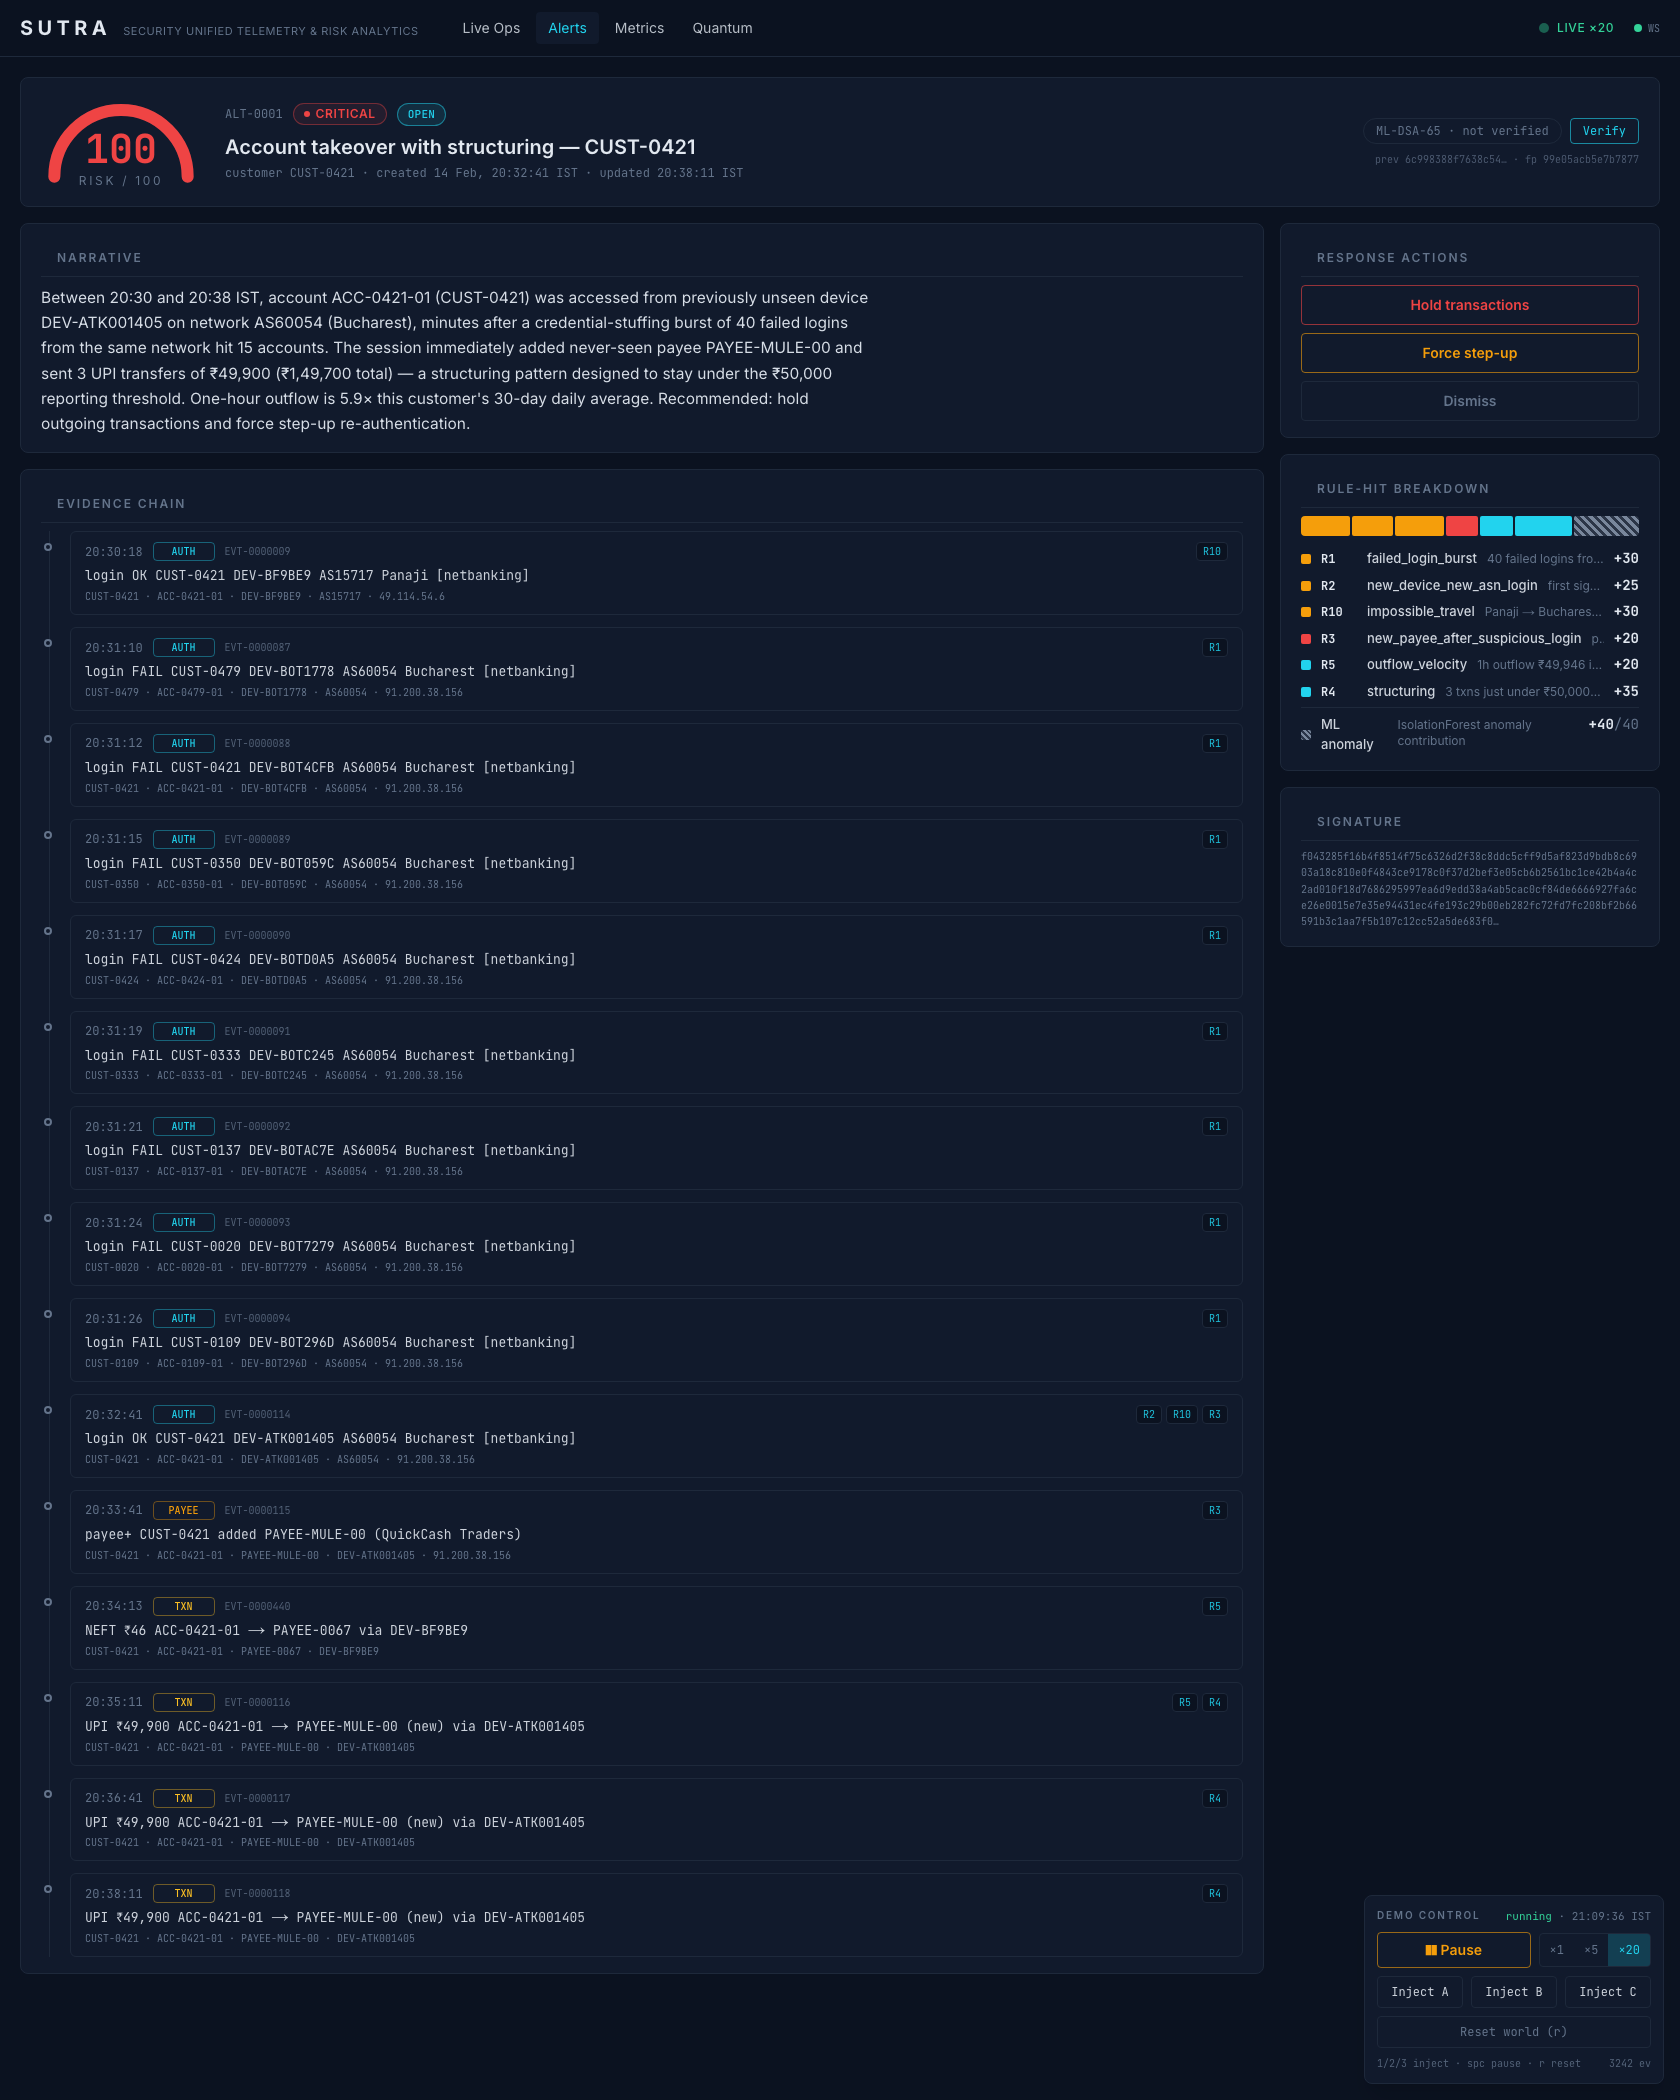
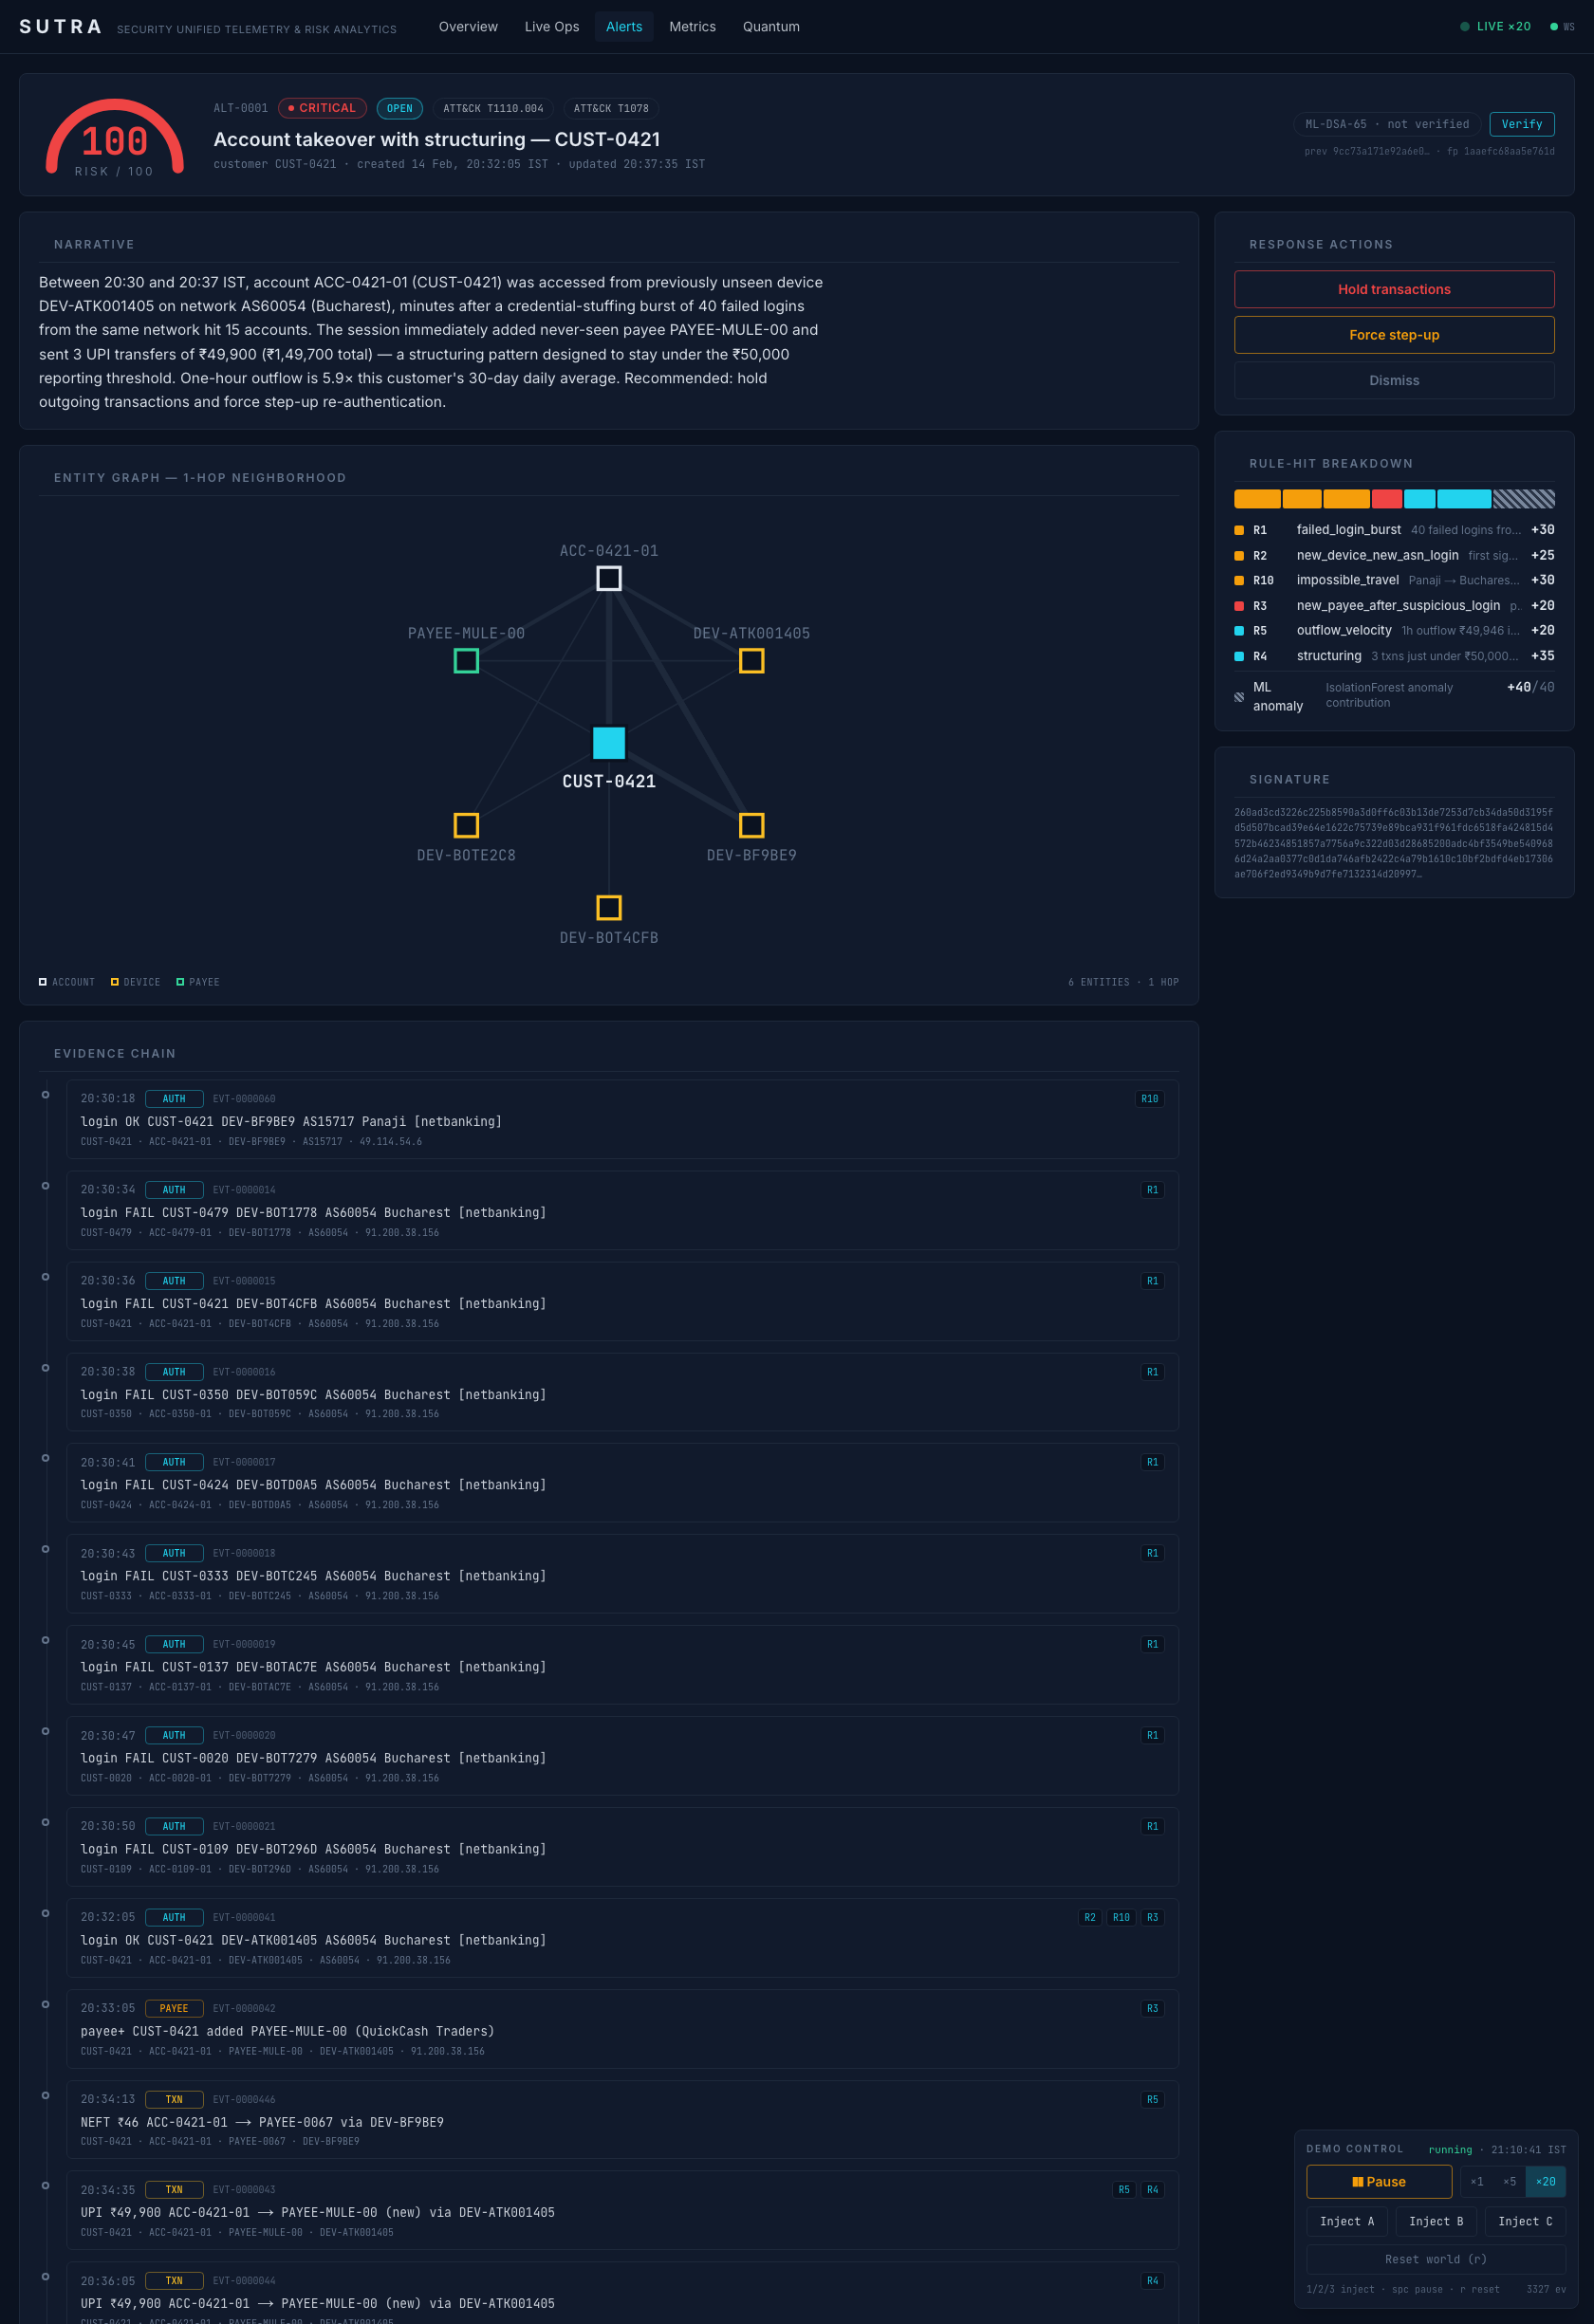
stretch (spec s13): entity-graph view on alert detail, MITRE ATT&CK tags, healthcheck fix
Deadline extended, DoD already green — so the spec's post-DoD stretch list:

- Entity-graph view on the alert detail page: the 1-hop neighborhood from the
  existing /api/graph endpoint as a hand-rolled deterministic radial SVG
  (no Cytoscape/new deps — a dozen nodes need no physics engine, and a fixed
  sorted-circle layout renders identically every run). Multi-edges collapse
  to one line with an event count (stroke scales log2). Type-colored square
  nodes, legend, graceful loading/unavailable states. The core "one entity
  graph" concept is now visible on the money screen: attacker device and
  mule payee literally hang off the victim hub.

- MITRE ATT&CK technique tags per dominant pattern (ato: T1110.004+T1078,
  terminal_compromise: T1071.001+T1657, quantum_exfil: T1048.002), carried
  in the existing tags list and rendered as header chips. Only techniques
  the evidence actually demonstrates.

- Fixed the frontend container reporting (unhealthy) forever: the compose
  healthcheck probed http://localhost:3000 and busybox wget resolves
  localhost to ::1 first, but the Next standalone server binds IPv4 only —
  probe 127.0.0.1 instead (the Dockerfile HEALTHCHECK already did; compose
  was overriding it). All three services now report healthy.

Refreshed alert-detail-scenario-a.png (now shows graph + chips), README,
screenshots README, DECISIONS. 42/42 tests green; verified live in Docker:
tags on ALT-0001/ALT-0002, graph rendering, zero console errors.

diff --git a/frontend/components/EntityGraph.tsx b/frontend/components/EntityGraph.tsx
@@ -1,0 +1,190 @@
+"use client";
+
+import { useEffect, useMemo, useState } from "react";
+import { getGraph } from "@/lib/api";
+import type { GraphResponse } from "@/lib/types";
+
+/**
+ * 1-hop entity neighborhood as a deterministic radial SVG — the correlation
+ * primitive made visible. Hand-rolled (no graph library): the payload is small
+ * (a dozen nodes), the layout is a fixed circle sorted by (type, id), and the
+ * result is identical every render — same seed, same picture, same demo.
+ * Multi-edges (one per event in the MultiDiGraph) collapse into one line with
+ * an event count.
+ */
+
+const TYPE_COLOR: Record<string, string> = {
+  customer: "#22D3EE",
+  server: "#22D3EE",
+  account: "#E2E8F0",
+  device: "#FBBF24",
+  staff: "#34D399",
+  payee: "#34D399",
+  terminal: "#F59E0B",
+  asn: "#F59E0B",
+  ip: "#EF4444",
+};
+
+const MAX_NEIGHBORS = 16;
+const W = 720;
+const H = 300;
+const CX = W / 2;
+const CY = H / 2 + 6;
+const R = 104;
+
+export function EntityGraph({ entityId }: { entityId: string }) {
+  const [graph, setGraph] = useState<GraphResponse | null>(null);
+  const [failed, setFailed] = useState(false);
+
+  useEffect(() => {
+    let alive = true;
+    setGraph(null);
+    setFailed(false);
+    getGraph(entityId).then((g) => {
+      if (!alive) return;
+      if (g === null) setFailed(true);
+      else setGraph(g);
+    });
+    return () => {
+      alive = false;
+    };
+  }, [entityId]);
+
+  const layout = useMemo(() => {
+    if (!graph) return null;
+    const neighbors = graph.nodes
+      .filter((n) => n.id !== entityId)
+      .sort((a, b) => a.type.localeCompare(b.type) || a.id.localeCompare(b.id));
+    const shown = neighbors.slice(0, MAX_NEIGHBORS);
+    const hidden = neighbors.length - shown.length;
+
+    const pos = new Map<string, { x: number; y: number }>();
+    pos.set(entityId, { x: CX, y: CY });
+    shown.forEach((n, i) => {
+      // start at -90° so the first group sits on top; even angular spacing
+      const a = -Math.PI / 2 + (2 * Math.PI * i) / Math.max(shown.length, 1);
+      pos.set(n.id, { x: CX + R * Math.cos(a), y: CY + R * Math.sin(a) });
+    });
+
+    // collapse multi-edges (one per event) into one line + count
+    const collapsed = new Map<string, { src: string; dst: string; type: string; n: number }>();
+    for (const e of graph.edges) {
+      if (!pos.has(e.src) || !pos.has(e.dst)) continue;
+      const key = [e.src, e.dst, e.type].join("|");
+      const prev = collapsed.get(key);
+      if (prev) prev.n += 1;
+      else collapsed.set(key, { src: e.src, dst: e.dst, type: e.type, n: 1 });
+    }
+
+    const types = Array.from(new Set(shown.map((n) => n.type))).sort();
+    return { shown, hidden, pos, edges: Array.from(collapsed.values()), types };
+  }, [graph, entityId]);
+
+  if (failed)
+    return (
+      <p className="py-4 text-center font-mono text-xs text-muted">
+        graph unavailable for {entityId}
+      </p>
+    );
+  if (!layout)
+    return (
+      <p className="py-4 text-center font-mono text-xs text-muted">
+        loading neighborhood…
+      </p>
+    );
+
+  const hub = layout.pos.get(entityId)!;
+  return (
+    <div>
+      <svg
+        viewBox={`0 0 ${W} ${H}`}
+        className="w-full"
+        role="img"
+        aria-label={`Entity graph: ${layout.shown.length} entities within one hop of ${entityId}`}
+      >
+        {layout.edges.map((e) => {
+          const a = layout.pos.get(e.src)!;
+          const b = layout.pos.get(e.dst)!;
+          return (
+            <line
+              key={`${e.src}|${e.dst}|${e.type}`}
+              x1={a.x}
+              y1={a.y}
+              x2={b.x}
+              y2={b.y}
+              stroke="#1E293B"
+              strokeWidth={Math.min(1 + Math.log2(e.n), 4)}
+            >
+              <title>{`${e.type} ×${e.n} — ${e.src} → ${e.dst}`}</title>
+            </line>
+          );
+        })}
+        {layout.shown.map((n) => {
+          const p = layout.pos.get(n.id)!;
+          const c = TYPE_COLOR[n.type] ?? "#64748B";
+          return (
+            <g key={n.id}>
+              <rect
+                x={p.x - 7}
+                y={p.y - 7}
+                width={14}
+                height={14}
+                fill="#0B1220"
+                stroke={c}
+                strokeWidth={2}
+              >
+                <title>{`${n.type} ${n.id}`}</title>
+              </rect>
+              <text
+                x={p.x}
+                y={p.y + (p.y >= CY ? 22 : -14)}
+                textAnchor="middle"
+                fill="#64748B"
+                fontSize="9.5"
+                fontFamily="var(--font-jetbrains), ui-monospace, monospace"
+              >
+                {n.id}
+              </text>
+            </g>
+          );
+        })}
+        {/* hub on top */}
+        <rect
+          x={hub.x - 11}
+          y={hub.y - 11}
+          width={22}
+          height={22}
+          fill="#22D3EE"
+          stroke="#0B1220"
+          strokeWidth={2}
+        />
+        <text
+          x={hub.x}
+          y={hub.y + 28}
+          textAnchor="middle"
+          fill="#E2E8F0"
+          fontSize="11"
+          fontWeight="700"
+          fontFamily="var(--font-jetbrains), ui-monospace, monospace"
+        >
+          {entityId}
+        </text>
+      </svg>
+      <div className="mt-1 flex flex-wrap items-center gap-x-4 gap-y-1 font-mono text-[10px] uppercase tracking-wider text-muted">
+        {layout.types.map((t) => (
+          <span key={t} className="flex items-center gap-1.5">
+            <span
+              className="inline-block h-2 w-2"
+              style={{ border: `2px solid ${TYPE_COLOR[t] ?? "#64748B"}` }}
+            />
+            {t}
+          </span>
+        ))}
+        <span className="ml-auto">
+          {layout.shown.length} entities · 1 hop
+          {layout.hidden > 0 ? ` · +${layout.hidden} more` : ""}
+        </span>
+      </div>
+    </div>
+  );
+}

diff --git a/frontend/lib/types.ts b/frontend/lib/types.ts
@@ -207,3 +207,20 @@ export interface AlertPushMessage {
 
 export type Scenario = "A" | "B" | "C";
 export type ReplaySpeed = 1 | 5 | 20;
+
+// ---- entity graph (GET /api/graph/{entity_id}) ----
+export interface GraphNode {
+  id: string;
+  type: string;
+}
+export interface GraphEdge {
+  src: string;
+  dst: string;
+  type: string;
+  ts: string;
+  event_id: string;
+}
+export interface GraphResponse {
+  nodes: GraphNode[];
+  edges: GraphEdge[];
+}

diff --git a/frontend/app/alerts/[id]/page.tsx b/frontend/app/alerts/[id]/page.tsx
@@ -1,6 +1,7 @@
 "use client";
 
 import { useCallback, useEffect, useRef, useState } from "react";
+import { EntityGraph } from "@/components/EntityGraph";
 import { EvidenceTimeline } from "@/components/EvidenceTimeline";
 import { RiskGauge } from "@/components/RiskGauge";
 import { RuleBreakdown } from "@/components/RuleBreakdown";
@@ -152,6 +153,17 @@ export default function AlertDetailPage({
                   QUANTUM / HNDL
                 </span>
               )}
+              {detail.tags
+                .filter((t) => /^T\d{4}/.test(t))
+                .map((t) => (
+                  <span
+                    key={t}
+                    title={`MITRE ATT&CK ${t}`}
+                    className="rounded-full border border-edge bg-panel px-2.5 py-0.5 font-mono text-[11px] text-body/70"
+                  >
+                    ATT&amp;CK {t}
+                  </span>
+                ))}
             </div>
             <h1 className="mt-2 text-xl font-semibold leading-snug text-body">
               {detail.title}
@@ -229,6 +241,10 @@ export default function AlertDetailPage({
             <p className="max-w-[85ch] pt-2 text-[15.5px] leading-relaxed text-body/95">
               {detail.narrative}
             </p>
+          </Panel>
+
+          <Panel title="Entity graph — 1-hop neighborhood" className="px-5 py-4">
+            <EntityGraph entityId={detail.entity_id} />
           </Panel>
 
           <Panel title="Evidence chain" className="px-5 py-4">

diff --git a/frontend/lib/api.ts b/frontend/lib/api.ts
@@ -3,6 +3,7 @@ import type {
   ActionType,
   AlertDetail,
   AlertsResponse,
+  GraphResponse,
   Metrics,
   QuantumResponse,
   ReplayControlResponse,
@@ -113,4 +114,8 @@ export function replayInject(
   scenario: Scenario,
 ): Promise<ReplayControlResponse | null> {
   return postJSON<ReplayControlResponse>(`/api/replay/inject/${scenario}`);
+}
+
+export function getGraph(entityId: string): Promise<GraphResponse | null> {
+  return getJSON<GraphResponse>(`/api/graph/${encodeURIComponent(entityId)}`);
 }

diff --git a/backend/sutra/explain.py b/backend/sutra/explain.py
@@ -86,6 +86,15 @@ TITLES = {
     "generic": "Correlated risk activity — {entity}",
 }
 
+# MITRE ATT&CK technique tags per dominant pattern (rendered as chips in the UI;
+# kept to techniques the evidence actually demonstrates, nothing aspirational).
+MITRE_TAGS = {
+    "ato": ["T1110.004", "T1078"],          # credential stuffing, valid accounts
+    "terminal_compromise": ["T1071.001", "T1657"],  # C2 over app protocol, financial theft
+    "quantum_exfil": ["T1048.002"],         # exfil over encrypted non-C2 protocol
+    "generic": [],
+}
+
 
 def _fmt(ts: datetime) -> str:
     return ist(ts).strftime("%H:%M")

diff --git a/backend/sutra/fusion.py b/backend/sutra/fusion.py
@@ -14,7 +14,7 @@ from typing import Optional
 
 from .config import (ALERT_THRESHOLD, INCIDENT_WINDOW_MIN, ML_MIN_POINTS, ML_WEIGHT,
                      RULE_WEIGHT, SILOED_THRESHOLD, severity_for)
-from .explain import TITLES, build_narrative, guess_pattern
+from .explain import MITRE_TAGS, TITLES, build_narrative, guess_pattern
 from .generator.world import World
 from .graph import EntityGraph
 from .rules.engine import Hit, RuleEngine
@@ -210,6 +210,7 @@ class FusionEngine:
                                   points=h.points, detail=h.detail, ts=h.ts)
                      for h in hits]
         tags = ["quantum"] if any(h.domain == "quantum" for h in hits) else []
+        tags += MITRE_TAGS.get(pattern, [])
 
         if inc.alert_id is None:
             self._seq += 1

diff --git a/DECISIONS.md b/DECISIONS.md
@@ -17,4 +17,8 @@ One line per non-obvious decision, newest at the bottom.
 - Events live in in-memory ring buffers; only alerts/actions are persisted to SQLite (alerts embed their evidence copies, so the signed record is self-contained).
 - Frontend calls the backend directly at NEXT_PUBLIC_API_BASE (default http://localhost:8000) with CORS enabled, rather than proxying through Next — fewer moving parts on the projector.
 - Live injections compress intra-scenario gaps 0.5× (spec 6.4 allows it) so Scenario A's critical alert lands ~7s after pressing 1 at ×20; batch mode keeps the exact spec offsets for the benchmark.
+- Compose healthcheck probes 127.0.0.1, not localhost: busybox wget tries ::1 first and the Next standalone server binds IPv4 only — the frontend container showed (unhealthy) forever while serving fine.
+- Entity-graph view on alert detail is a hand-rolled deterministic radial SVG, not Cytoscape (spec stretch suggested it): the 1-hop payload is ~a dozen nodes, a fixed sorted-circle layout renders identically every run, and zero new npm deps keeps the offline bundle small.
+- MITRE ATT&CK tags per dominant pattern (ato → T1110.004/T1078, terminal → T1071.001/T1657, quantum → T1048.002) ride in the existing alert tags list — techniques the evidence actually demonstrates, nothing aspirational.
+- /overview cover page cancels the root layout's pb-40 dock clearance and hides the floating dock on that route only — it must fit exactly one viewport for screenshots; its START DEMO CTA replaces the dock there (hotkeys stay live).
 - Adversarial-review fixes (all six confirmed findings): inject uses ensure_running() so it never clears an operator pause; chain verification checks every record's ML-DSA signature (an unkeyed hash can be recomputed by a tamperer, even on the tail); pubkey_fingerprint is signed into the payload and verify reports the record's fingerprint; R4's dedup key anchors to the first txn of a contiguous run (sliding-window anchor re-scored long runs); R10 requires device novelty (a known handset in a new city is roaming, not teleportation — and the takeover login still trips it); merging two already-alerted incidents retires the absorbed alert as dismissed "[Merged into ALT-X]" instead of orphaning it open.

diff --git a/README.md b/README.md
@@ -92,8 +92,9 @@ open-source; the finished app runs air-gapped.
 
 Captured from the running Docker stack — see [`deliverables/screenshots/`](deliverables/screenshots/):
 
+- [Overview cover page](deliverables/screenshots/overview.png) — scenario case previews, benchmark stats, START DEMO flow (`/overview`)
 - [Live Ops mid-Scenario A](deliverables/screenshots/live-ops-scenario-a.png) — both event rivers flowing, the critical account-takeover alert in the feed
-- [Alert detail "money screen"](deliverables/screenshots/alert-detail-scenario-a.png) — narrative, full evidence chain, rule-hit breakdown, ML-DSA-65 signature
+- [Alert detail "money screen"](deliverables/screenshots/alert-detail-scenario-a.png) — narrative, entity-graph neighborhood, full evidence chain, rule-hit breakdown, MITRE ATT&CK tags, ML-DSA-65 signature
 - [Fused-vs-siloed benchmark](deliverables/screenshots/metrics.png) — −91.4% alert volume, 0 false positives
 - [HNDL crypto inventory](deliverables/screenshots/quantum.png) — DB-2 flagged quantum-vulnerable red
 

diff --git a/deliverables/screenshots/README.md b/deliverables/screenshots/README.md
@@ -3,6 +3,7 @@
 Captured from the running Docker stack (seed 42).
 
 - `live-ops-scenario-a.png` — Live Ops mid-Scenario A: both event rivers flowing, the critical account-takeover alert in the feed.
-- `alert-detail-scenario-a.png` — the alert-detail "money screen": narrative, full evidence chain, rule-hit breakdown, ML anomaly, ML-DSA-65 signature.
+- `overview.png` — the `/overview` cover page: case previews, benchmark stats, START DEMO flow.
+- `alert-detail-scenario-a.png` — the alert-detail "money screen": narrative, entity-graph neighborhood, full evidence chain, rule-hit breakdown, MITRE ATT&CK tags, ML-DSA-65 signature.
 - `metrics.png` — fused-vs-siloed benchmark (−91.4% alert volume, 0 false positives).
 - `quantum.png` — HNDL crypto inventory; DB-2 flagged quantum-vulnerable red.